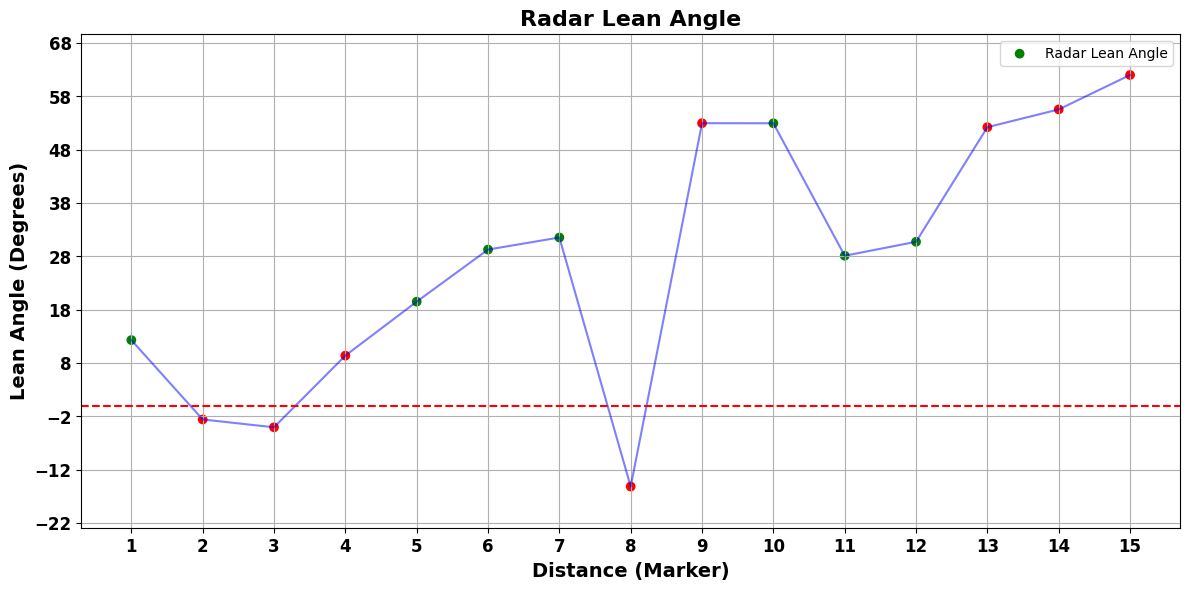
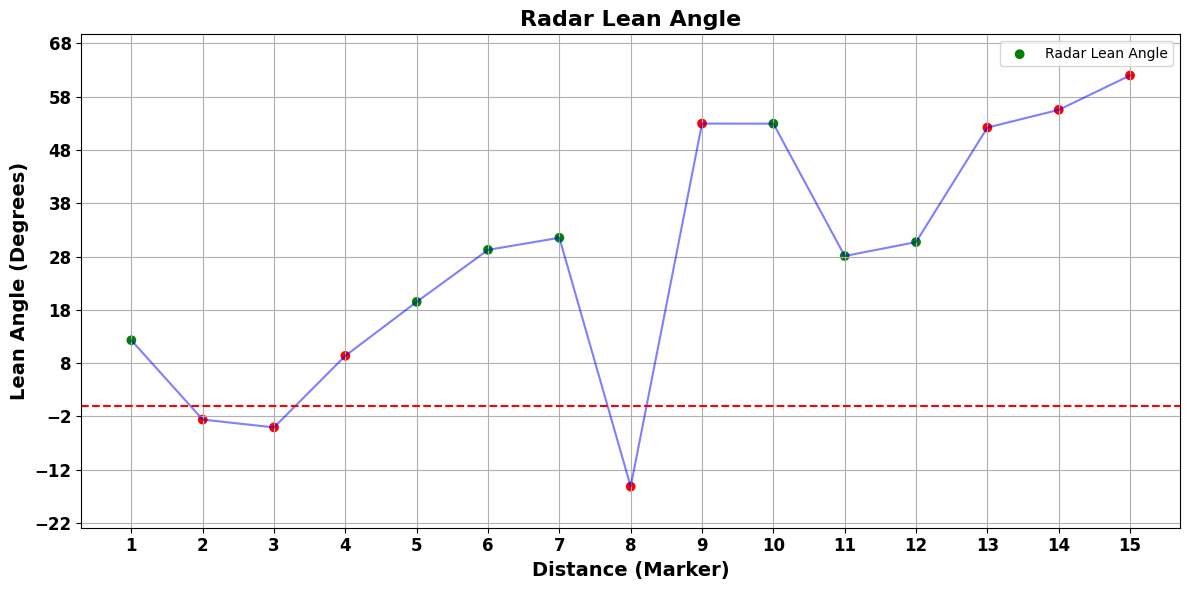
leaning metric completed

diff --git a/src/plot_lean_cm.py b/src/plot_lean_cm.py
@@ -1,0 +1,116 @@
+import os
+from icecream import ic
+import src.lib.directory as dir
+from src.lib.globals import *
+import pandas as pd
+import numpy as np
+import matplotlib.pyplot as plt
+import src.lib.plot_styles as ps
+from typing import Tuple, List, Dict
+
+
+
+def vitals_time_to_seconds(time_str):
+    if pd.isna(time_str):
+        return np.nan
+
+    if ':' in time_str:
+        minutes, seconds = time_str.split(':')
+        return int(minutes) * 60 + int(seconds)
+    
+    return int(time_str)
+
+
+def radar_time_to_seconds(time_str):
+    return float(time_str) 
+
+
+def homogenize_trial_files(files: List[str]) -> Tuple[pd.DataFrame]:
+    sensor_data = []
+    
+    for file in files:
+        if 'vitals' in file:
+            vitals_df = pd.read_csv(file)
+        else:
+            sensor_data.append(pd.read_csv(file))
+
+    sensor_df = pd.concat(sensor_data, ignore_index=True)
+    return vitals_df, sensor_df
+
+
+def process_trial(vitals_df: pd.DataFrame, sensor_df: pd.DataFrame) -> pd.DataFrame:
+    vitals_df['start seconds'] = vitals_df['Start'].apply(vitals_time_to_seconds).astype(float)
+    vitals_df['end seconds'] = vitals_df['End'].apply(vitals_time_to_seconds).astype(float)
+    sensor_df['seconds'] = sensor_df['Timestamp'].apply(radar_time_to_seconds)
+    sensor_df['leaning angle'] = pd.to_numeric(sensor_df['Leaning Angle'], errors='coerce')
+    out_df = vitals_df.copy()
+
+    def compute_radar_lean(row) -> float:
+        relevant_rows = sensor_df[
+            (sensor_df['seconds'] >= row['start seconds']) &
+            (sensor_df['seconds'] <= row['end seconds'])
+        ]
+        return relevant_rows['leaning angle'].mean()
+    
+    out_df['radar lean angle'] = vitals_df.apply(compute_radar_lean, axis=1)
+
+    def is_same_lean(row) -> bool:
+        if row['lean_direction'] == 'left':
+            return row['radar lean angle'] > 5
+        elif row['lean_direction'] == 'right':
+            return row['radar lean angle'] < -5
+        return False
+
+    out_df['agreement'] = out_df.apply(is_same_lean, axis=1)
+
+    return out_df
+
+
+def aggregate_data() -> pd.DataFrame:
+    actual_lean_all = []
+    agreement_all = []
+
+    trial_dirs = dir.dir_search('chair', root_dir=RAW_DIR)
+    for trial in trial_dirs:
+        files = dir.file_search_subdirs(trial, directory=RAW_DIR)
+
+        vitals_df, radar_df = homogenize_trial_files(files)
+        trial_df = process_trial(vitals_df, radar_df)
+
+        actual_lean_all.extend(trial_df['lean_direction'].tolist())
+        agreement_all.extend(trial_df['agreement'].tolist())
+
+    df = pd.DataFrame({
+        'actual lean': actual_lean_all,
+        'agreement': agreement_all
+    })
+    return df
+
+
+
+def print_output(df: pd.DataFrame) -> None:
+    left_accuracy = len(
+        df[(df['agreement'] == True) & (df['actual lean'] == 'left')]) \
+        / len(df[df['actual lean'] == 'left']
+    )
+    right_accuracy = len(
+        df[(df['agreement'] == True) & (df['actual lean'] == 'right')]) \
+        / len(df[df['actual lean'] == 'right']
+    )
+    total_accuracy = len(df[df['agreement'] == True]) / len(df)
+
+    ic(left_accuracy, right_accuracy, total_accuracy)
+    left = len(df[df['actual lean'] == 'left'])
+    right = len(df[df['actual lean'] == 'right'])
+    ic(left, right)
+
+
+
+def main():
+    df = aggregate_data()
+    print_output(df)
+    return
+
+
+if __name__ == "__main__":
+    main()

diff --git a/figure_scripts/lean_final.py b/figure_scripts/lean_final.py
@@ -152,11 +152,11 @@ def process_all_groups(root_folder):
     all_data = pd.concat(overall_results, ignore_index=True)
 
     all_data['Detected Category'] = all_data['Radar Lean Angle'].apply(
-        lambda x: 'left' if x < -5 else 'right' if x > 5 else 'upright'
-    )
-    all_data['Expected Category'] = all_data['lean_direction'].replace({'left': 'right', 'right': 'left', 'upright': 'upright'})
+        lambda x: 'left' if x < -5 else 'right'
+        )
+    all_data['Expected Category'] = all_data['lean_direction'].replace({'left': 'right', 'right': 'left'})
 
-    cm = confusion_matrix(all_data['Expected Category'], all_data['Detected Category'], labels=['left', 'right', 'upright'])
+    cm = confusion_matrix(all_data['Expected Category'], all_data['Detected Category'], labels=['left', 'right'])
 
     accuracy = accuracy_score(all_data['Expected Category'], all_data['Detected Category'])
     precision = precision_score(all_data['Expected Category'], all_data['Detected Category'], average='weighted')
@@ -173,10 +173,10 @@ def process_all_groups(root_folder):
     
     plt.title('Lean Angle Matrix', weight='bold', fontsize=16)
     plt.colorbar()
-    tick_marks = np.arange(len(['left', 'right', 'upright']))
+    tick_marks = np.arange(len(['left', 'right']))
     
-    plt.xticks(tick_marks, ['left', 'right', 'upright'], fontsize=12, fontweight='bold')
-    plt.yticks(tick_marks, ['left', 'right', 'upright'], fontsize=12, fontweight='bold')
+    plt.xticks(tick_marks, ['left', 'right'], fontsize=12, fontweight='bold')
+    plt.yticks(tick_marks, ['left', 'right'], fontsize=12, fontweight='bold')
 
     fmt = 'd'
     thresh = cm.max() / 2.

diff --git a/src/lib/directory.py b/src/lib/directory.py
@@ -73,6 +73,48 @@ def get_dfs(directory: str) -> List[str]:
     return all_files
 
 
+def dir_search(*terms: str, root_dir: str = f'.{os.sep}') -> List[str]:
+    _check_dir_exists(root_dir)
+    terms = [word.lower() for string in terms for word in string.split()]
+
+    def matches_terms(dir) -> bool:
+        return (
+            all(term in dir.lower() for term in terms) and
+            not dir.startswith('.')
+        )
+    
+    all_subdirs = []
+    for root, _, files in os.walk(root_dir):
+        rel_subdir = os.path.relpath(root, root_dir)
+        all_subdirs.append(rel_subdir)
+
+    filtered_subdirs = filter(matches_terms, all_subdirs)
+    return list(filtered_subdirs)
+
+
+def file_search_subdirs(*terms: str, directory: str = f".{os.sep}") -> List[str]:
+    _check_dir_exists(directory)
+    terms = [word.lower() for string in terms for word in string.split()]
+    applicable_files = []
+
+    def matches_terms(filename) -> bool:
+        return (
+            all(term in filename.lower() for term in terms) and 
+            not filename.startswith('.')
+        )
+    
+    for root, _, files in os.walk(directory):
+        for file in files:
+            subdir = os.path.relpath(root, directory)
+            rel_filepath = os.path.join(subdir, file)
+            if matches_terms(rel_filepath):
+                cur_complete_filepath = os.path.join(directory, rel_filepath)
+                applicable_files.append(cur_complete_filepath)
+
+    return applicable_files
+
+
+
 def search(*terms: str, directory=f".{os.sep}") -> List[str]:
     _check_dir_exists(directory)
     files = get_files(directory)

diff --git a/src/lib/globals.py b/src/lib/globals.py
@@ -6,6 +6,6 @@ _parent_dir = os.path.dirname(_file_path)
 
 CODE_DIR = os.path.dirname(os.path.dirname(_parent_dir))
 LIB_DIR = os.path.join(CODE_DIR, 'src', 'lib')
-RAW_DIR = os.path.join(CODE_DIR, 'data', 'raw')
+RAW_DIR = os.path.join(CODE_DIR, 'visualizer_data')
 PROCESSED_DIR = os.path.join(CODE_DIR, 'data', 'processed')
 FIGURE_DIR = os.path.join(CODE_DIR, 'figures')
